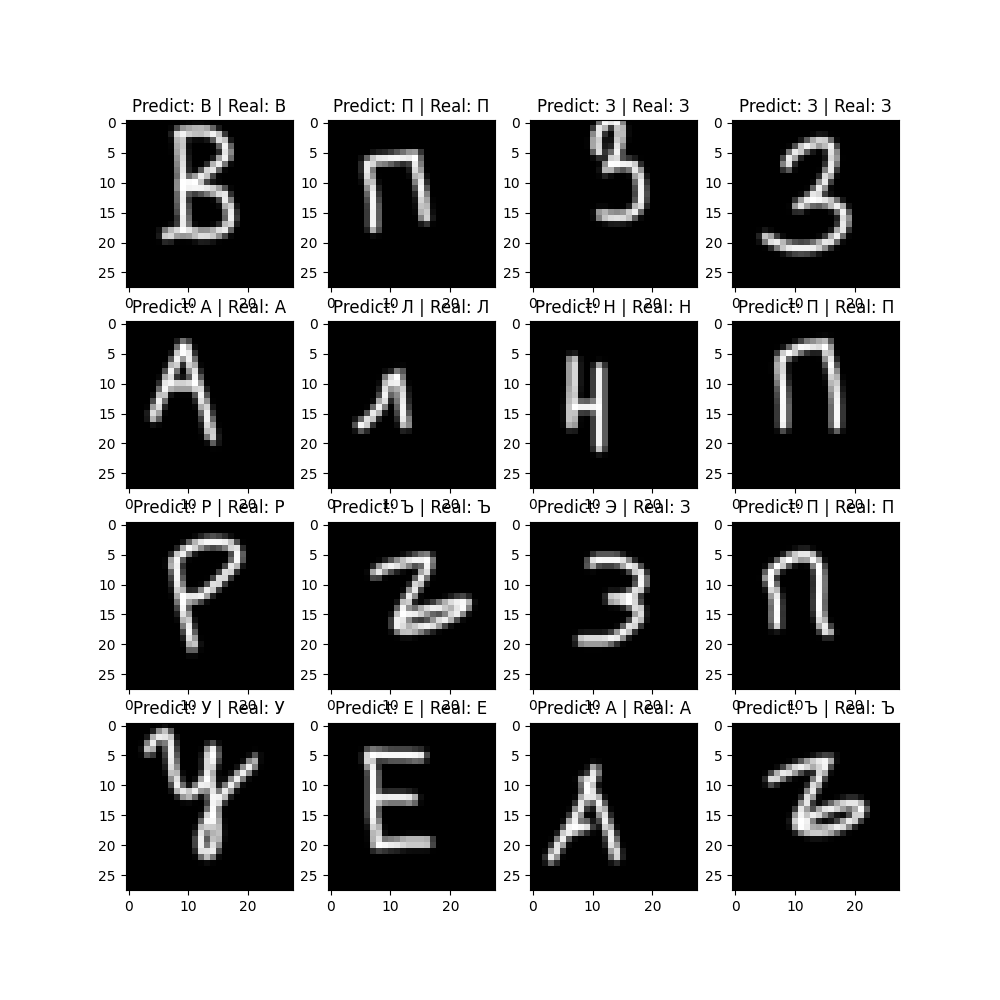
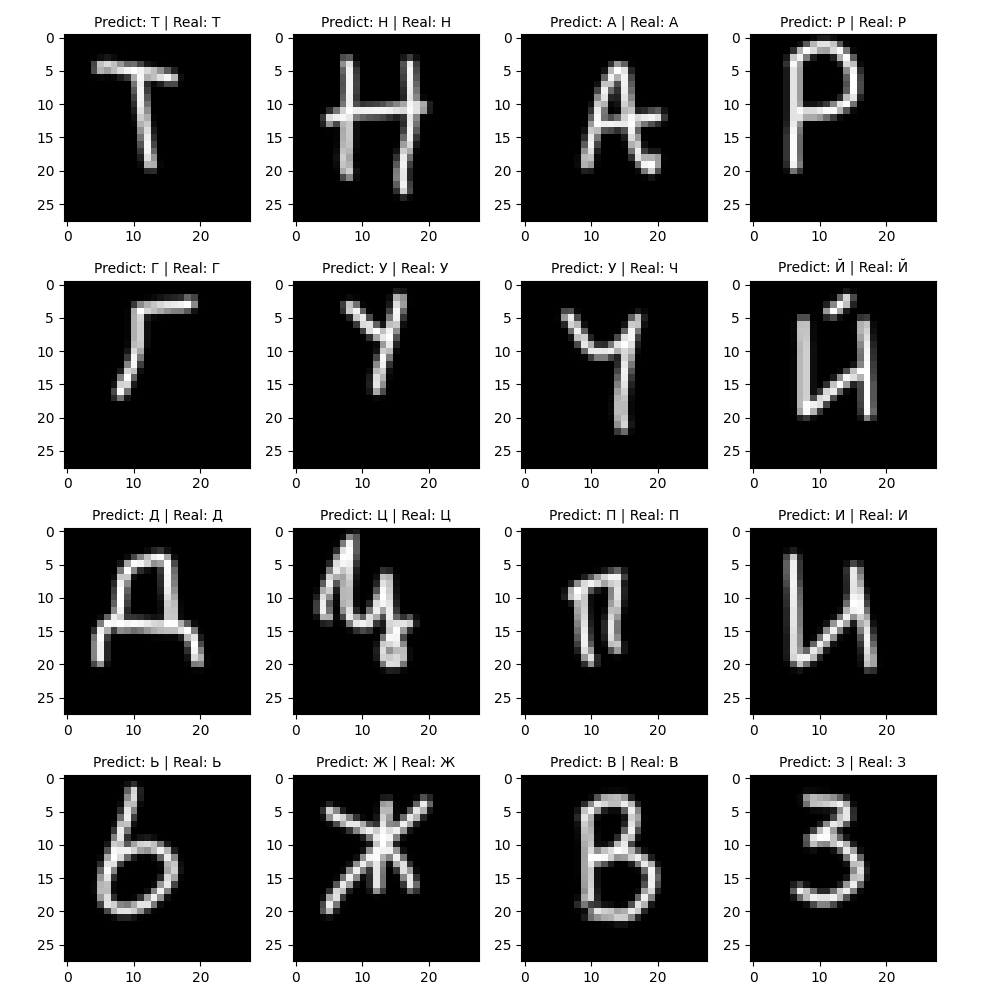
clear code

diff --git a/cyrrilic_mnist/main.py b/cyrrilic_mnist/main.py
@@ -30,35 +30,29 @@ model.eval()
 correct, total = 0, 0
 plt.figure(figsize=(10, 10))
 
-with torch.no_grad():
-    for b_idx, (images, labels) in enumerate(test_loader):
-        images, labels = images.to(device), labels.to(device)
-        preds = model(images).argmax(1)
-        
-        if b_idx == 0:
-            for i in range(min(16, len(images))):
-                plt.subplot(4, 4, i + 1)
-                p_c, r_c = idx_to_class[preds[i].item()], idx_to_class[labels[i].item()]
-                plt.title(f"Predict: {p_c} | Real: {r_c}")
-        
-        total += labels.size(0)
-        correct += (preds == labels).sum().item()
 
 with torch.no_grad():
     for b_idx, (images, labels) in enumerate(test_loader):
-        preds = model(images).argmax(1)
+        images, labels = images.to(device), labels.to(device)
+        
+        outputs = model(images)
+        preds = outputs.argmax(1)
         
         if b_idx == 0:
             for i in range(min(16, len(images))):
                 plt.subplot(4, 4, i + 1)
-                img = images[i].squeeze() * 0.5 + 0.5
+                
+                img = images[i].squeeze().cpu() * 0.5 + 0.5
                 plt.imshow(img, cmap='gray')
                 
-                p_c, r_c = idx_to_class[preds[i].item()], idx_to_class[labels[i].item()]
-                plt.title(f"Predict: {p_c} | Real: {r_c}")
+                p_c = idx_to_class[preds[i].item()]
+                r_c = idx_to_class[labels[i].item()]
+                plt.title(f"Predict: {p_c} | Real: {r_c}",  fontsize=10)
         
         total += labels.size(0)
         correct += (preds == labels).sum().item()
+        plt.tight_layout()
+
 
 plt.savefig(root / "prediction.png")
 print(f"Accuracy: {100 * correct / total}%")
